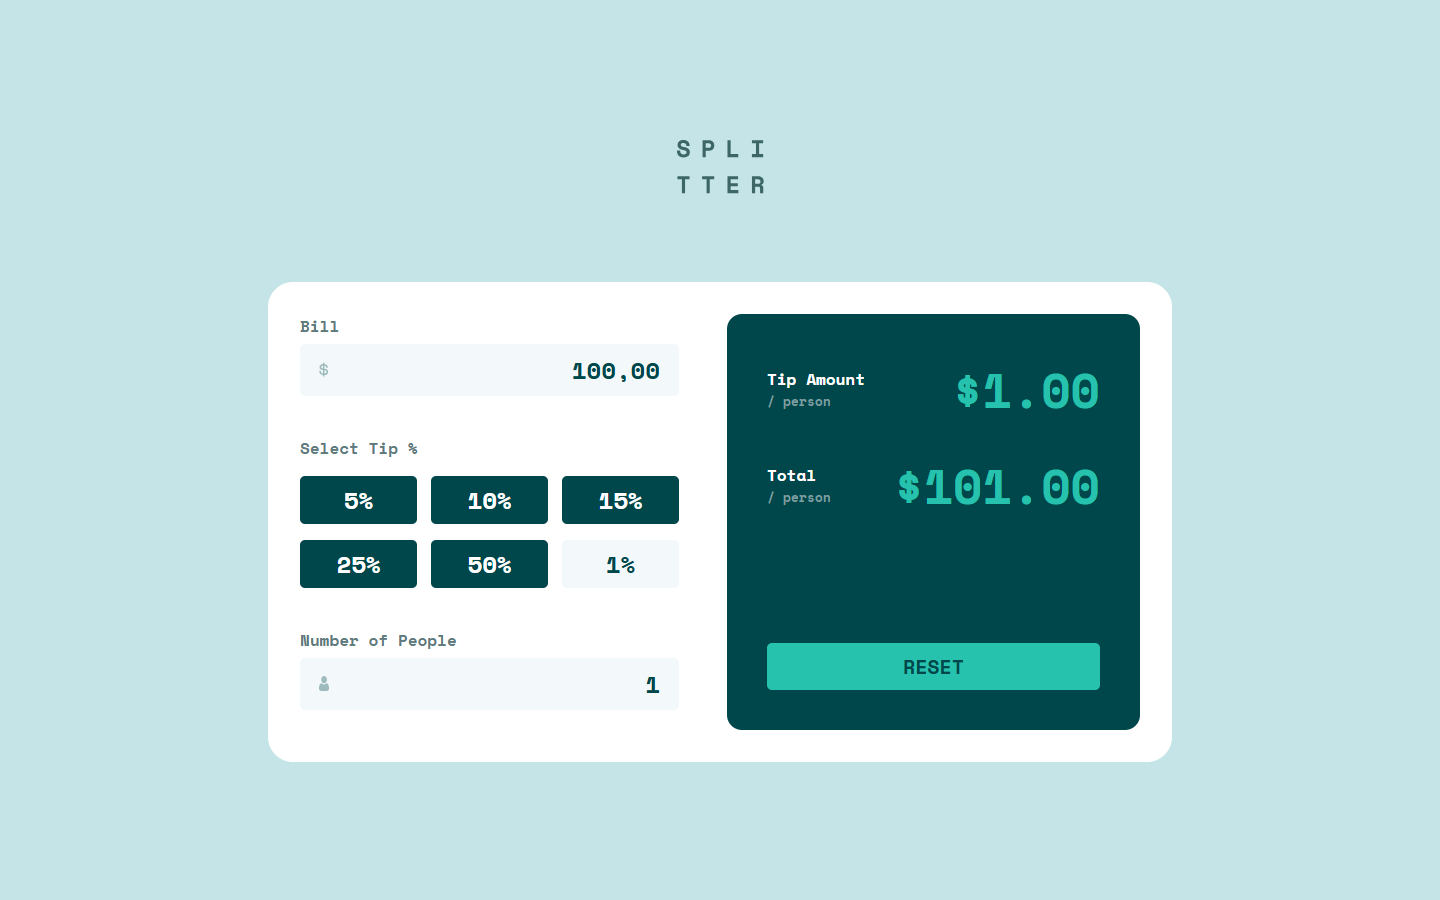
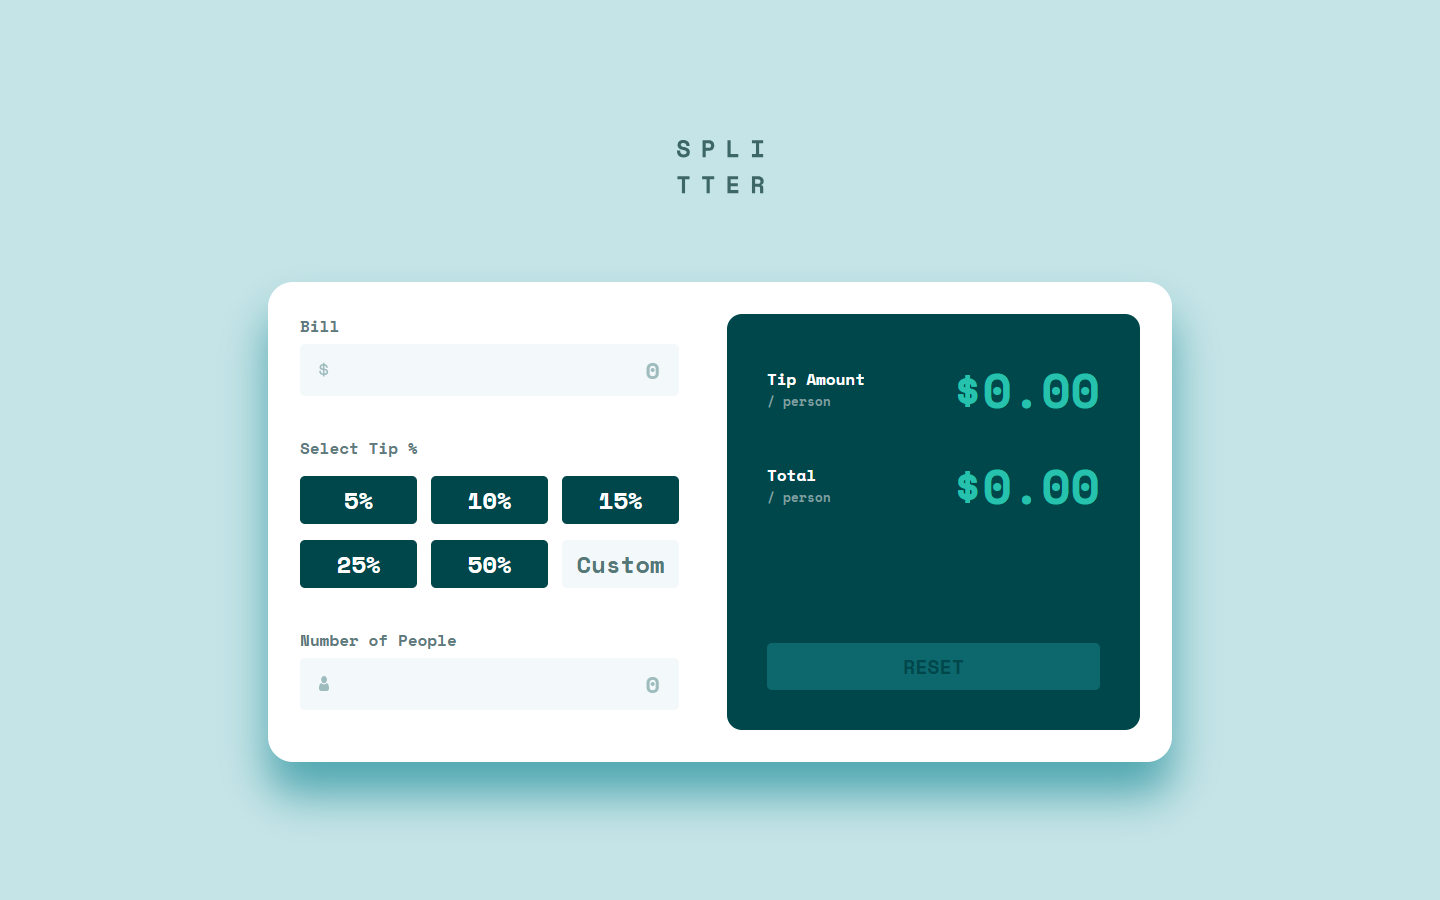
ajuste no botão reset

diff --git a/src/Component/Calculator/DisplayTipandTotalCost/DisplayTipandTotalCost.tsx b/src/Component/Calculator/DisplayTipandTotalCost/DisplayTipandTotalCost.tsx
@@ -5,10 +5,13 @@ import './DisplayTipandTotalCostResponsiveMobile.css';
 import { useClientAccount } from '../../../Context/ClientAccountContext';
 import FormatText from '../../../Utils/FormatText';
 import { defaultClientAccount } from '../../../Interface/Manager';
+import classNames from 'classnames';
 
 
 function DisplayTipAndTotalCost() {
     const { clientAccount, setClientAccount } = useClientAccount()!;
+
+    const resetClassName = () => { return classNames('reset', { active: allValuesSet }) }
 
     const allValuesSet = (
         clientAccount.bill.value !== '' &&
@@ -46,7 +49,7 @@ function DisplayTipAndTotalCost() {
                 <p className='tip-amount' > Total <span className='person'>/ person</span></p>
                 <h2 className='value'>${handleTotalValue()}</h2>
             </div>
-            <button onClick={resetValues} className='reset' type="button">RESET</button>
+            <button onClick={resetValues} className={resetClassName()} type="button">RESET</button>
         </div>
     );
 }

diff --git a/src/Component/Calculator/DisplayTipandTotalCost/DisplayTipandTotalCost.css b/src/Component/Calculator/DisplayTipandTotalCost/DisplayTipandTotalCost.css
@@ -33,7 +33,7 @@
 /*Não consegui usar o justify-self*/
 .display-tip-total-cost .reset {
   margin-top: 97px;
-  background-color: #26c2ae;
+  background-color: #0d686d;
   border-style: none;
   border-radius: 5px;
   height: 48px;
@@ -44,10 +44,11 @@
   color: #00474b;
 }
 
-.display-tip-total-cost .reset:hover {
-  cursor: pointer;
+.display-tip-total-cost .reset.active {
+  background-color: #26c2ae;
 }
 
-.display-tip-total-cost .reset:active {
+.display-tip-total-cost .reset:hover {
   background-color: #9fe8df;
+  cursor: pointer;
 }

diff --git a/src/Component/Calculator/calculator.css b/src/Component/Calculator/calculator.css
@@ -5,4 +5,5 @@
   border-radius: 25px;
   padding: 32px;
   height: 480px;
+  box-shadow: 0px 32px 43px #4fa6af;
 }
